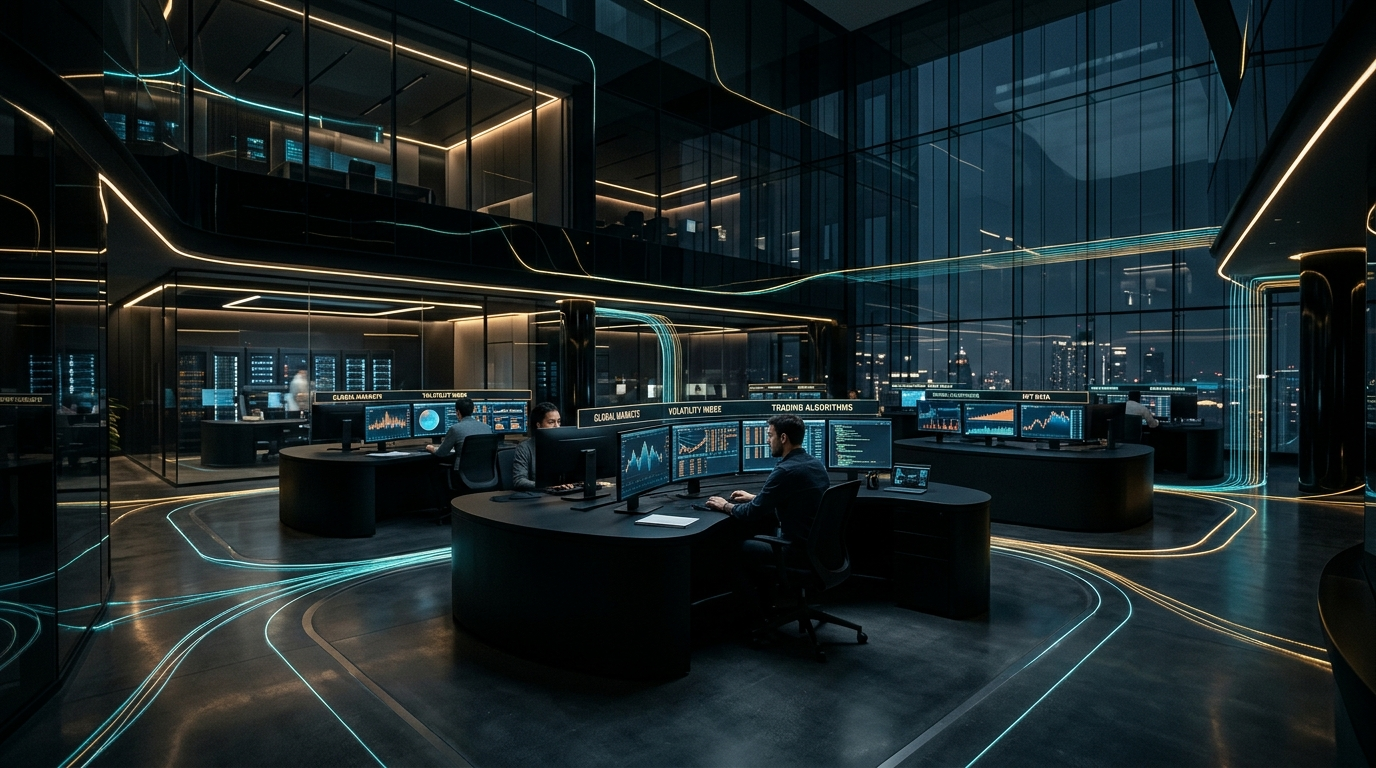
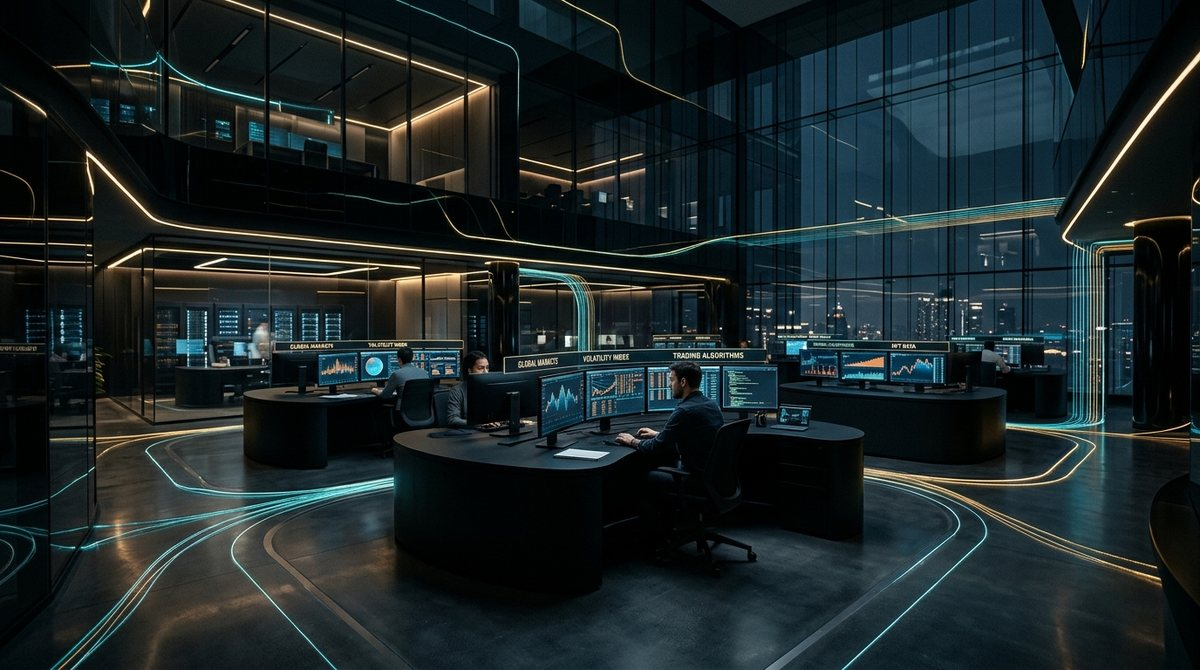
perf(web): compress og image to 143KB, clean compose.prod.yaml allowed origins, optimize Be Vietnam Pro font loading

Changed region(s): [[0.7708, 0.7164, 0.8017, 0.7463], [0.4625, 0.4179, 0.4933, 0.4478]]

diff --git a/web/index.html b/web/index.html
@@ -11,6 +11,9 @@
     <meta name="theme-color" content="#0B1220" />
     <link rel="icon" type="image/svg+xml" href="/favicon.svg" />
     <link rel="canonical" href="https://zupirus.com/" />
+    <link rel="preconnect" href="https://fonts.googleapis.com" />
+    <link rel="preconnect" href="https://fonts.gstatic.com" crossorigin />
+    <link href="https://fonts.googleapis.com/css2?family=Be+Vietnam+Pro:ital,wght@0,300;0,400;0,500;0,600;0,700;0,800;1,400&family=Inter:wght@400;500;600;700&family=JetBrains+Mono:wght@400;500;600;700;800&family=Plus+Jakarta+Sans:wght@500;600;700;800&display=swap" rel="stylesheet" />
     <title>ZUPIRUS — Bot Trade Vàng XAU/USD &amp; Forex Cloud MT5 Chuẩn Quỹ</title>
     <meta
       name="description"
@@ -113,9 +116,6 @@
     <meta http-equiv="Cache-Control" content="no-cache, no-store, must-revalidate" />
     <meta http-equiv="Pragma" content="no-cache" />
     <meta http-equiv="Expires" content="0" />
-    <link rel="preconnect" href="https://fonts.googleapis.com" />
-    <link rel="preconnect" href="https://fonts.gstatic.com" crossorigin />
-    <link href="https://fonts.googleapis.com/css2?family=Be+Vietnam+Pro:ital,wght@0,300;0,400;0,500;0,600;0,700;0,800;1,400&family=Inter:wght@400;500;600;700&family=JetBrains+Mono:wght@400;500;600;700;800&family=Plus+Jakarta+Sans:wght@500;600;700;800&display=swap" rel="stylesheet" />
   </head>
   <body class="bg-[#0B1220] text-slate-100 antialiased selection:bg-[#12B5A6]/25 selection:text-[#F5B700]">
     <div id="root"></div>

diff --git a/web/src/index.css b/web/src/index.css
@@ -9,9 +9,9 @@
   color-scheme: dark;
   font-synthesis: none;
 
-  /* Typography (Strict 2-Font System: Inter + JetBrains Mono) */
-  --font-display: "Inter", -apple-system, BlinkMacSystemFont, sans-serif;
-  --font-sans: "Inter", -apple-system, BlinkMacSystemFont, sans-serif;
+  /* Typography (Be Vietnam Pro Brand Font + Inter + JetBrains Mono) */
+  --font-display: "Be Vietnam Pro", "Inter", -apple-system, BlinkMacSystemFont, sans-serif;
+  --font-sans: "Be Vietnam Pro", "Inter", -apple-system, BlinkMacSystemFont, sans-serif;
   --font-mono: "JetBrains Mono", ui-monospace, SFMono-Regular, Menlo, monospace;
 
   /* Semantic Color Tokens (MASTER.md Financial Dashboard) */
